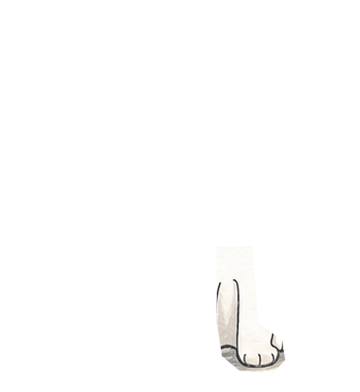
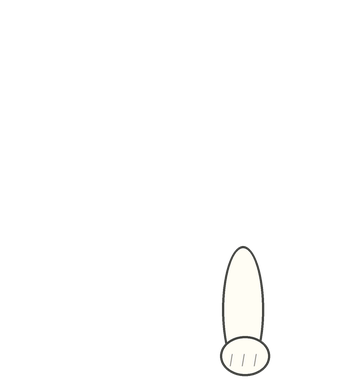
Replace pet rig with clean transparent animation layers

Changed region(s): [[0.5806, 0.6429, 0.7944, 0.9796], [0.6417, 0.6122, 0.7028, 0.6735]]

diff --git a/Sources/TianMiao/main.swift b/Sources/TianMiao/main.swift
@@ -449,7 +449,7 @@ final class CatView: NSView {
         sittingCoreLayer.transform = CATransform3DIdentity
         walkCoreLayer.transform = CATransform3DIdentity
         partLayers.forEach { $0.transform = CATransform3DIdentity }
-        headLayer.transform = CATransform3DMakeRotation(0.10, 0, 0, 1)
+        headLayer.transform = CATransform3DIdentity
         walkHeadLayer.transform = CATransform3DIdentity
         leftBlinkLayer.opacity = 0
         rightBlinkLayer.opacity = 0
@@ -623,47 +623,47 @@ final class CatView: NSView {
         isWalking = true
         setWalkingPose(true, animated: true)
         let forever = Float.infinity
-        let duration: TimeInterval = 0.72
+        let duration: TimeInterval = 0.86
         let phases: [NSNumber] = [0, 0.2, 0.5, 0.7, 1]
 
         // Opposing diagonal pairs alternate between a planted stance and a lifted return swing.
-        add(walkFrontLegLayer, "transform.rotation.z", [-0.14, 0.02, 0.14, 0.025, -0.14], duration, phases,
+        add(walkFrontLegLayer, "transform.rotation.z", [-0.095, 0.012, 0.09, 0.012, -0.095], duration, phases,
             repeatCount: forever, key: "walkFrontRotation")
-        add(walkFrontLegLayer, "transform.translation.x", [1.5, 0, -1.5, 0, 1.5], duration, phases,
+        add(walkFrontLegLayer, "transform.translation.x", [1.0, 0, -1.0, 0, 1.0], duration, phases,
             repeatCount: forever, key: "walkFrontStride")
-        add(walkFrontLegLayer, "transform.translation.y", [0, 0, 0.5, 4.2, 0], duration, phases,
+        add(walkFrontLegLayer, "transform.translation.y", [0, 0, 0.3, 2.4, 0], duration, phases,
             repeatCount: forever, key: "walkFrontLift")
-        add(walkRearLegLayer, "transform.rotation.z", [0.12, -0.02, -0.12, -0.02, 0.12], duration, phases,
+        add(walkRearLegLayer, "transform.rotation.z", [0.085, -0.012, -0.085, -0.012, 0.085], duration, phases,
             repeatCount: forever, key: "walkRearRotation")
-        add(walkRearLegLayer, "transform.translation.x", [-1.2, 0, 1.2, 0, -1.2], duration, phases,
+        add(walkRearLegLayer, "transform.translation.x", [-0.9, 0, 0.9, 0, -0.9], duration, phases,
             repeatCount: forever, key: "walkRearStride")
-        add(walkRearLegLayer, "transform.translation.y", [0, 0, 0.5, 3.8, 0], duration, phases,
+        add(walkRearLegLayer, "transform.translation.y", [0, 0, 0.3, 2.2, 0], duration, phases,
             repeatCount: forever, key: "walkRearLift")
 
-        add(walkHindLegLayer, "transform.rotation.z", [-0.12, -0.02, 0.12, 0.02, -0.12], duration, phases,
+        add(walkHindLegLayer, "transform.rotation.z", [-0.085, -0.012, 0.085, 0.012, -0.085], duration, phases,
             repeatCount: forever, key: "walkHindRotation")
-        add(walkHindLegLayer, "transform.translation.x", [1.1, 0, -1.1, 0, 1.1], duration, phases,
+        add(walkHindLegLayer, "transform.translation.x", [0.85, 0, -0.85, 0, 0.85], duration, phases,
             repeatCount: forever, key: "walkHindStride")
-        add(walkHindLegLayer, "transform.translation.y", [0.5, 3.6, 0, 0, 0.5], duration, phases,
+        add(walkHindLegLayer, "transform.translation.y", [0.3, 2.2, 0, 0, 0.3], duration, phases,
             repeatCount: forever, key: "walkHindLift")
-        add(walkFrontDownLegLayer, "transform.rotation.z", [0.13, 0.02, -0.13, -0.02, 0.13], duration, phases,
+        add(walkFrontDownLegLayer, "transform.rotation.z", [0.09, 0.012, -0.09, -0.012, 0.09], duration, phases,
             repeatCount: forever, key: "walkFrontDownRotation")
-        add(walkFrontDownLegLayer, "transform.translation.x", [-1.3, 0, 1.3, 0, -1.3], duration, phases,
+        add(walkFrontDownLegLayer, "transform.translation.x", [-0.95, 0, 0.95, 0, -0.95], duration, phases,
             repeatCount: forever, key: "walkFrontDownStride")
-        add(walkFrontDownLegLayer, "transform.translation.y", [0.5, 4, 0, 0, 0.5], duration, phases,
+        add(walkFrontDownLegLayer, "transform.translation.y", [0.3, 2.3, 0, 0, 0.3], duration, phases,
             repeatCount: forever, key: "walkFrontDownLift")
 
-        add(rigLayer, "transform.translation.y", [0, 1.4, 0, 1.4, 0], duration, phases,
+        add(rigLayer, "transform.translation.y", [0, 0.7, 0, 0.7, 0], duration, phases,
             repeatCount: forever, key: "walkWeightShift")
-        add(walkCoreLayer, "transform.translation.x", [0, 1.2, 0, -1.2, 0], duration, phases,
+        add(walkCoreLayer, "transform.translation.x", [0, 0.7, 0, -0.7, 0], duration, phases,
             repeatCount: forever, key: "walkCoreWeight")
-        add(walkCoreLayer, "transform.rotation.z", [0.016, 0, -0.016, 0, 0.016], duration, phases,
+        add(walkCoreLayer, "transform.rotation.z", [0.008, 0, -0.008, 0, 0.008], duration, phases,
             repeatCount: forever, key: "walkSpine")
-        add(walkBodyLayer, "transform.scale.x", [1, 1.008, 1, 1.008, 1], duration, phases,
+        add(walkBodyLayer, "transform.scale.x", [1, 1.004, 1, 1.004, 1], duration, phases,
             additive: false, repeatCount: forever, key: "walkBodyStride")
-        add(walkHeadLayer, "transform.rotation.z", [-0.006, 0.004, 0.006, -0.004, -0.006], duration, phases,
+        add(walkHeadLayer, "transform.rotation.z", [-0.003, 0.002, 0.003, -0.002, -0.003], duration, phases,
             repeatCount: forever, key: "walkHeadBalance")
-        add(walkTailLayer, "transform.rotation.z", [-0.08, 0, 0.09, 0, -0.08], duration, phases,
+        add(walkTailLayer, "transform.rotation.z", [-0.055, 0, 0.06, 0, -0.055], duration, phases,
             repeatCount: forever, key: "walkTail")
         addShadowPulse(scale: [1, 0.96, 1, 0.96, 1],
                        opacity: [0.74, 0.67, 0.74, 0.67, 0.74],

diff --git a/scripts/generate_clean_tianmiao_rig.py b/scripts/generate_clean_tianmiao_rig.py
@@ -1,0 +1,265 @@
+#!/usr/bin/env python3
+"""Generate clean transparent Tianmiao runtime layers.
+
+The design-sheet crop was useful for exploration, but not for runtime: paper
+texture and non-overlapped joints create halos and puppet tearing. This script
+draws the app-facing layers directly so every PNG has clean alpha and stable
+overlaps for animation.
+"""
+
+from __future__ import annotations
+
+from pathlib import Path
+from typing import Iterable
+
+from PIL import Image, ImageDraw, ImageFilter
+
+
+ROOT = Path(__file__).resolve().parents[1]
+OUT = ROOT / "Resources"
+CANVAS = (360, 392)
+S = 4
+
+INK = (67, 68, 65, 255)
+DARK = (70, 75, 73, 255)
+MID = (132, 139, 136, 255)
+LIGHT = (238, 238, 228, 255)
+WHITE = (255, 253, 244, 255)
+PINK = (255, 154, 148, 255)
+PINK_DARK = (218, 118, 116, 255)
+SHADOW = (85, 82, 75, 58)
+
+
+def sc(points: Iterable[tuple[float, float]]) -> list[tuple[int, int]]:
+    return [(round(x * S), round(y * S)) for x, y in points]
+
+
+def layer() -> Image.Image:
+    return Image.new("RGBA", (CANVAS[0] * S, CANVAS[1] * S), (0, 0, 0, 0))
+
+
+def aa(img: Image.Image) -> Image.Image:
+    return img.resize(CANVAS, Image.Resampling.LANCZOS)
+
+
+def draw_line(d: ImageDraw.ImageDraw, pts: Iterable[tuple[float, float]], fill=INK, width=3) -> None:
+    d.line(sc(pts), fill=fill, width=round(width * S), joint="curve")
+
+
+def ellipse(d: ImageDraw.ImageDraw, box: tuple[float, float, float, float], fill, outline=INK, width=2) -> None:
+    d.ellipse(tuple(round(v * S) for v in box), fill=fill, outline=outline, width=round(width * S))
+
+
+def polygon(d: ImageDraw.ImageDraw, pts: Iterable[tuple[float, float]], fill, outline=INK, width=2) -> None:
+    points = list(pts)
+    d.polygon(sc(points), fill=fill)
+    if outline[3] and width > 0:
+        d.line(sc(points + [points[0]]), fill=outline, width=round(width * S), joint="curve")
+
+
+def soft_shadow(img: Image.Image, box: tuple[float, float, float, float], alpha=44) -> None:
+    sh = Image.new("RGBA", img.size, (0, 0, 0, 0))
+    d = ImageDraw.Draw(sh)
+    d.ellipse(tuple(round(v * S) for v in box), fill=(60, 55, 48, alpha))
+    img.alpha_composite(sh.filter(ImageFilter.GaussianBlur(4 * S)))
+
+
+def stripe(d: ImageDraw.ImageDraw, pts: Iterable[tuple[float, float]], width=5) -> None:
+    draw_line(d, pts, fill=(58, 61, 59, 220), width=width)
+
+
+def draw_tail_sit() -> Image.Image:
+    img = layer()
+    d = ImageDraw.Draw(img)
+    soft_shadow(img, (75, 348, 208, 376), 32)
+    draw_line(d, [(175, 320), (137, 329), (105, 349), (76, 355)], fill=INK, width=24)
+    draw_line(d, [(175, 320), (137, 329), (105, 349), (76, 355)], fill=MID, width=19)
+    for x in (88, 116, 145, 169):
+        stripe(d, [(x, 345), (x - 15, 358)], width=5)
+    return aa(img)
+
+
+def draw_haunches_sit() -> Image.Image:
+    img = layer()
+    d = ImageDraw.Draw(img)
+    ellipse(d, (128, 252, 306, 370), fill=(230, 232, 223, 255), width=2.4)
+    ellipse(d, (154, 272, 226, 370), fill=WHITE, outline=(0, 0, 0, 0), width=0)
+    stripe(d, [(260, 266), (287, 303)], 5)
+    stripe(d, [(249, 295), (295, 328)], 5)
+    stripe(d, [(136, 289), (162, 326)], 5)
+    return aa(img)
+
+
+def draw_body_sit() -> Image.Image:
+    img = layer()
+    d = ImageDraw.Draw(img)
+    soft_shadow(img, (126, 345, 304, 376), 36)
+    ellipse(d, (128, 194, 300, 366), fill=(231, 233, 224, 255), width=2.5)
+    ellipse(d, (154, 201, 258, 366), fill=WHITE, outline=(0, 0, 0, 0), width=0)
+    for x in (139, 151, 270, 282):
+        stripe(d, [(x, 220), (x + (12 if x < 200 else -12), 278)], width=4)
+    draw_line(d, [(178, 250), (174, 330)], fill=(170, 164, 154, 160), width=1.5)
+    draw_line(d, [(230, 250), (236, 330)], fill=(170, 164, 154, 160), width=1.5)
+    return aa(img)
+
+
+def draw_paw_sit(left: bool) -> Image.Image:
+    img = layer()
+    d = ImageDraw.Draw(img)
+    x0 = 166 if left else 222
+    ellipse(d, (x0, 246, x0 + 42, 373), fill=WHITE, width=2.2)
+    ellipse(d, (x0 - 2, 336, x0 + 48, 376), fill=WHITE, width=2.2)
+    for dx in (10, 22, 34):
+        draw_line(d, [(x0 + dx, 354), (x0 + dx - 2, 366)], fill=(112, 107, 102, 190), width=1.1)
+    return aa(img)
+
+
+def draw_head_sit() -> Image.Image:
+    img = layer()
+    d = ImageDraw.Draw(img)
+    # Ears behind face.
+    polygon(d, [(93, 144), (124, 57), (149, 164)], fill=(137, 143, 140, 255), width=2.4)
+    polygon(d, [(101, 141), (123, 78), (140, 156)], fill=PINK, outline=(126, 102, 98, 210), width=1.2)
+    polygon(d, [(235, 88), (284, 25), (291, 148)], fill=(139, 145, 142, 255), width=2.4)
+    polygon(d, [(246, 91), (279, 43), (282, 137)], fill=PINK, outline=(126, 102, 98, 210), width=1.2)
+    for x in (116, 123, 130, 260, 271, 280):
+        draw_line(d, [(x, 94), (x + 5, 137)], fill=PINK_DARK, width=1.2)
+
+    ellipse(d, (68, 91, 307, 272), fill=(229, 231, 224, 255), width=2.8)
+    polygon(d, [(141, 100), (193, 89), (234, 103), (220, 270), (135, 270)], fill=WHITE, outline=(0, 0, 0, 0), width=0)
+    ellipse(d, (90, 144, 158, 213), fill=WHITE, width=2)
+    ellipse(d, (195, 112, 273, 193), fill=WHITE, width=2)
+    ellipse(d, (116, 165, 149, 198), fill=(15, 17, 18, 255), outline=(15, 17, 18, 255), width=1)
+    ellipse(d, (226, 136, 262, 174), fill=(15, 17, 18, 255), outline=(15, 17, 18, 255), width=1)
+    ellipse(d, (130, 168, 139, 177), fill=(255, 255, 255, 235), outline=(255, 255, 255, 235), width=1)
+    ellipse(d, (239, 139, 249, 149), fill=(255, 255, 255, 235), outline=(255, 255, 255, 235), width=1)
+    polygon(d, [(177, 202), (189, 199), (184, 209)], fill=(68, 66, 63, 255), outline=(68, 66, 63, 255), width=1)
+    polygon(d, [(181, 220), (225, 224), (197, 260)], fill=PINK, width=1.8)
+    draw_line(d, [(188, 223), (199, 251)], fill=(180, 90, 92, 190), width=1.2)
+    for side, x1, x2 in [(-1, 80, 25), (1, 255, 328)]:
+        for y in (196, 210, 224):
+            draw_line(d, [(x1, y), (x2, y + side * (y - 205) * 0.2)], fill=(74, 72, 68, 210), width=1.5)
+    for pts in [
+        [(151, 96), (160, 134)], [(176, 92), (178, 135)], [(202, 95), (194, 134)],
+        [(99, 154), (133, 174)], [(248, 112), (226, 147)], [(260, 170), (225, 177)],
+    ]:
+        stripe(d, pts, width=6)
+    return aa(img)
+
+
+def draw_walk_body() -> Image.Image:
+    img = layer()
+    d = ImageDraw.Draw(img)
+    soft_shadow(img, (68, 328, 304, 356), 34)
+    # Rounded chest and shoulder are part of the body layer so the head can
+    # overlap naturally without a rectangular neck patch.
+    ellipse(d, (72, 216, 150, 313), fill=WHITE, width=2.2)
+    ellipse(d, (103, 196, 278, 306), fill=(226, 229, 221, 255), width=2.4)
+    ellipse(d, (118, 226, 246, 310), fill=WHITE, outline=(0, 0, 0, 0), width=0)
+    ellipse(d, (81, 229, 134, 302), fill=WHITE, outline=(0, 0, 0, 0), width=0)
+    for x in (130, 154, 181, 210, 239):
+        stripe(d, [(x, 204), (x - 11, 278)], width=5)
+    stripe(d, [(93, 220), (124, 242)], width=4)
+    return aa(img)
+
+
+def draw_walk_tail() -> Image.Image:
+    img = layer()
+    d = ImageDraw.Draw(img)
+    draw_line(d, [(241, 225), (265, 190), (307, 176), (331, 188)], fill=INK, width=22)
+    draw_line(d, [(241, 225), (265, 190), (307, 176), (331, 188)], fill=MID, width=17)
+    for x in (260, 288, 314):
+        stripe(d, [(x, 192), (x + 8, 180)], width=5)
+    return aa(img)
+
+
+def draw_walk_leg(name: str) -> Image.Image:
+    img = layer()
+    d = ImageDraw.Draw(img)
+    specs = {
+        "walk_rear_leg": {
+            "line": [(136, 260), (122, 296), (96, 330)],
+            "paw": (78, 321, 116, 343),
+            "width": 22,
+            "shade": [(123, 272), (112, 304), (94, 329)],
+        },
+        "walk_hind_leg": {
+            "line": [(196, 260), (207, 296), (208, 332)],
+            "paw": (198, 323, 230, 343),
+            "width": 21,
+            "shade": [(203, 272), (211, 305), (211, 331)],
+        },
+        "walk_front_down_leg": {
+            "line": [(101, 252), (86, 294), (68, 333)],
+            "paw": (49, 324, 83, 345),
+            "width": 22,
+            "shade": [(97, 265), (84, 299), (68, 333)],
+        },
+        "walk_front_leg": {
+            "line": [(113, 252), (130, 289), (151, 326)],
+            "paw": (132, 317, 169, 340),
+            "width": 20,
+            "shade": [(119, 265), (134, 296), (151, 326)],
+        },
+    }[name]
+    draw_line(d, specs["line"], fill=INK, width=specs["width"] + 3)
+    draw_line(d, specs["line"], fill=WHITE, width=specs["width"])
+    ellipse(d, specs["paw"], fill=WHITE, width=2.0)
+    draw_line(d, specs["shade"], fill=(172, 166, 156, 130), width=1.2)
+    return aa(img)
+
+
+def draw_walk_head() -> Image.Image:
+    img = layer()
+    d = ImageDraw.Draw(img)
+    polygon(d, [(54, 154), (72, 92), (102, 157)], fill=(137, 143, 140, 255), width=2.2)
+    polygon(d, [(119, 133), (156, 84), (166, 164)], fill=(139, 145, 142, 255), width=2.2)
+    polygon(d, [(60, 151), (73, 108), (92, 154)], fill=PINK, outline=(126, 102, 98, 210), width=1)
+    polygon(d, [(127, 133), (153, 98), (158, 158)], fill=PINK, outline=(126, 102, 98, 210), width=1)
+    ellipse(d, (34, 138, 171, 247), fill=(229, 231, 224, 255), width=2.4)
+    ellipse(d, (52, 150, 148, 247), fill=WHITE, outline=(0, 0, 0, 0), width=0)
+    ellipse(d, (50, 180, 92, 222), fill=WHITE, width=1.8)
+    ellipse(d, (96, 158, 142, 205), fill=WHITE, width=1.8)
+    ellipse(d, (63, 193, 84, 214), fill=(12, 14, 15, 255), outline=(12, 14, 15, 255), width=1)
+    ellipse(d, (113, 174, 137, 199), fill=(12, 14, 15, 255), outline=(12, 14, 15, 255), width=1)
+    ellipse(d, (71, 194, 77, 200), fill=(255, 255, 255, 235), outline=(255, 255, 255, 235), width=1)
+    polygon(d, [(39, 215), (50, 212), (45, 220)], fill=INK, outline=INK, width=1)
+    polygon(d, [(70, 218), (104, 222), (86, 246)], fill=PINK, width=1.4)
+    for pts in [[(76, 146), (84, 173)], [(104, 137), (106, 166)], [(140, 164), (127, 186)], [(45, 165), (68, 177)]]:
+        stripe(d, pts, width=5)
+    for y in (210, 222):
+        draw_line(d, [(43, y), (12, y + 3)], fill=(74, 72, 68, 210), width=1.2)
+    return aa(img)
+
+
+def save(name: str, img: Image.Image) -> None:
+    img.save(OUT / f"{name}.png", optimize=True)
+
+
+def composite(names: list[str]) -> Image.Image:
+    out = Image.new("RGBA", CANVAS, (0, 0, 0, 0))
+    for name in names:
+        out.alpha_composite(Image.open(OUT / f"{name}.png").convert("RGBA"))
+    return out
+
+
+def main() -> None:
+    OUT.mkdir(parents=True, exist_ok=True)
+    save("rig_tail", draw_tail_sit())
+    save("rig_haunches", draw_haunches_sit())
+    save("rig_body", draw_body_sit())
+    save("rig_paw_left", draw_paw_sit(True))
+    save("rig_paw_right", draw_paw_sit(False))
+    save("rig_head", draw_head_sit())
+    save("normal", composite(["rig_tail", "rig_haunches", "rig_body", "rig_paw_left", "rig_paw_right", "rig_head"]))
+
+    save("walk_tail", draw_walk_tail())
+    save("walk_body", draw_walk_body())
+    for name in ("walk_rear_leg", "walk_hind_leg", "walk_front_down_leg", "walk_front_leg"):
+        save(name, draw_walk_leg(name))
+    save("walk_head", draw_walk_head())
+    print(f"Generated clean Tianmiao runtime layers in {OUT}")
+
+
+if __name__ == "__main__":
+    main()
